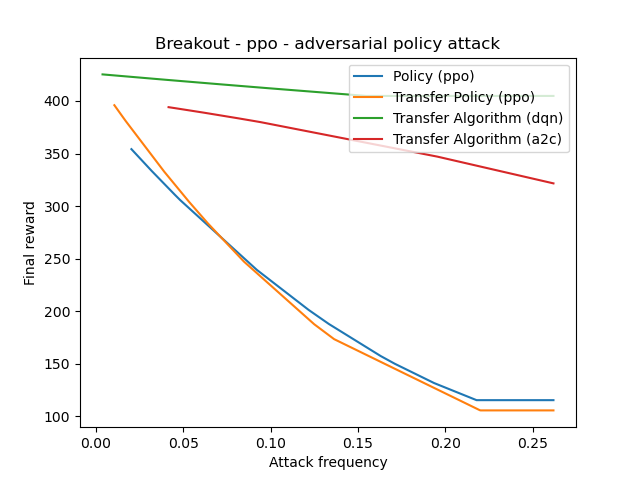
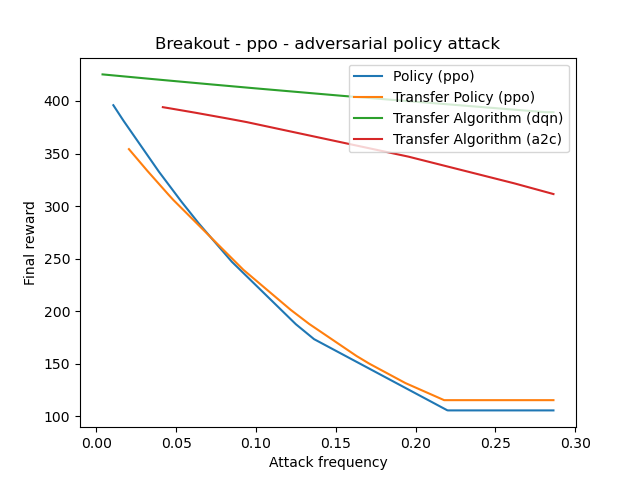
corrected some charts

diff --git a/make_chart_rew.py b/make_chart_rew.py
@@ -33,19 +33,19 @@ def limit_lists(limit_freq, x_lists, y_lists):
 if __name__ == '__main__':
 
     # Data
-    task = "Pong"  # Pong
-    model = "dqn"
+    task = "Breakout"  # Pong
+    model = "ppo"
     n_lines = 4
-    transfer_model = "dqn"
-    transfer_model_2 = "a2c"
-    transfer_model_3 = "ppo"
-    img_attack = "fgm_eps_0.1"  # fgm_eps_0.05, perfect_attack, fgm_eps_0.3
-    rl_attack = "strategically_timed_attack"  # strategically_timed_attack, uniform_attack, critical_strategy_attack, critical_point_attack, adversarial_policy_attack
+    transfer_model = "ppo"
+    transfer_model_2 = "dqn"
+    transfer_model_3 = "a2c"
+    img_attack = "fgm_eps_0.01"  # fgm_eps_0.05, perfect_attack, fgm_eps_0.3
+    rl_attack = "adversarial_policy_attack"  # strategically_timed_attack, uniform_attack, critical_strategy_attack, critical_point_attack, adversarial_policy_attack
     has_atk_freq = 1
     has_n_attacks = 0
-    smoothing = 3
-    limit_freq = 0.015
-    min_freq = 0.002
+    smoothing = 2
+    limit_freq = 0.3
+    min_freq = 0.0
     first_equal = False  # make first reward same as first line for all lines
     input_file = [
         "log/" + task + "NoFrameskip-v4/" + model + "/" + rl_attack + "_" + img_attack + ".npy",
